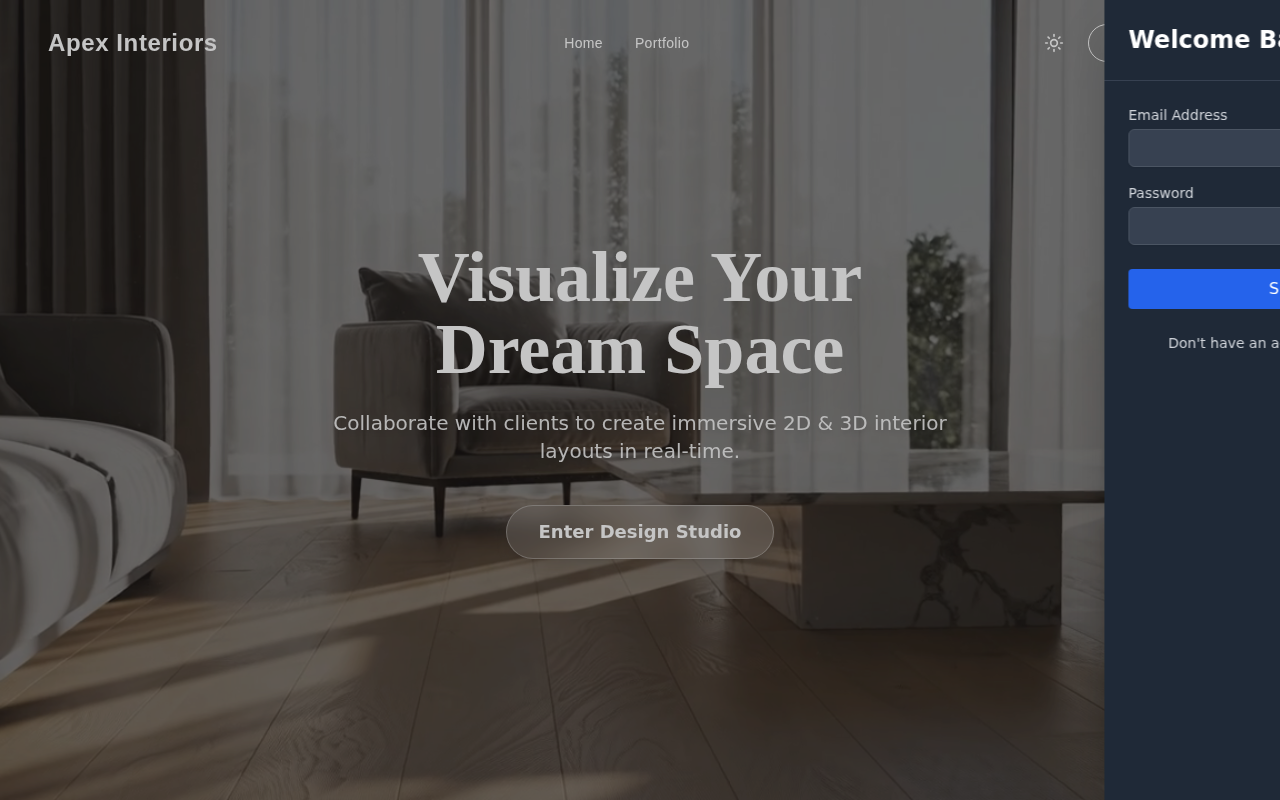
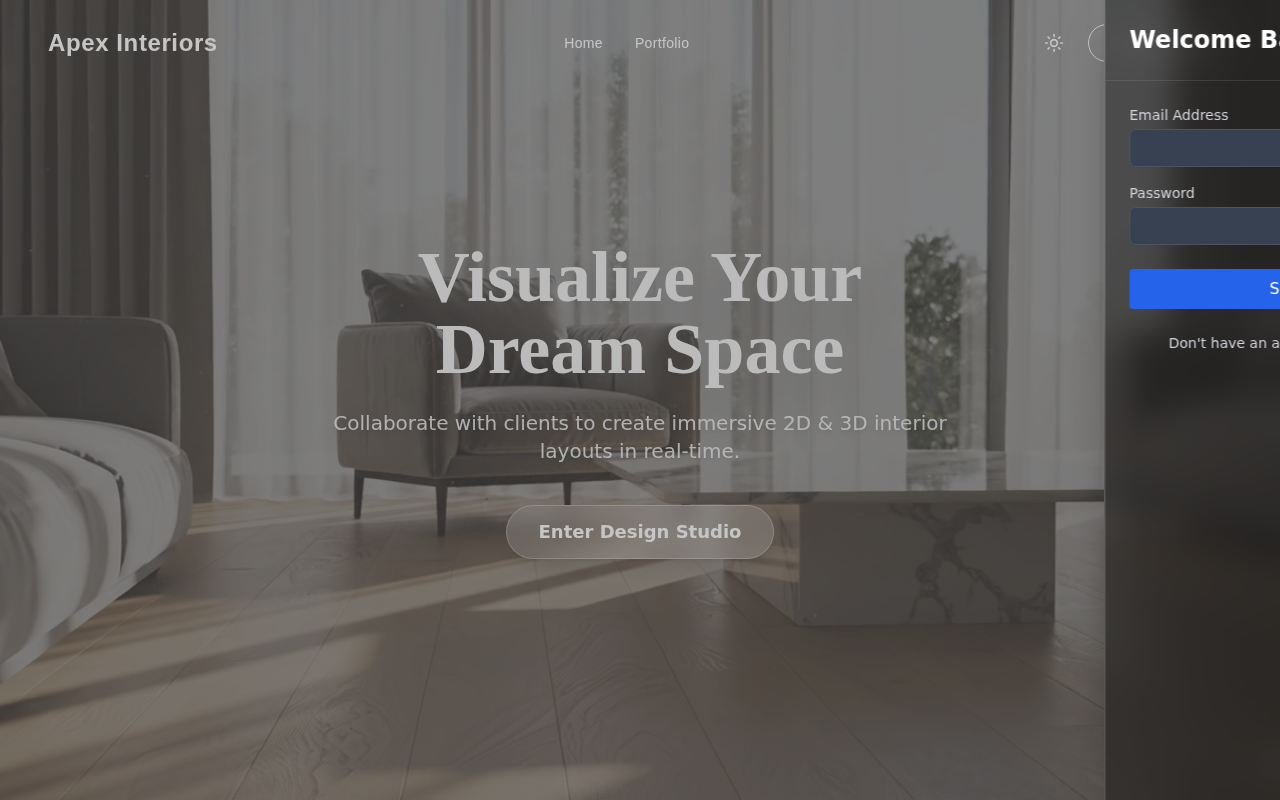
feat: Add toast notifications, item properties, user guide, and AuthPanel

diff --git a/client/src/features/auth/AuthPanel.jsx b/client/src/features/auth/AuthPanel.jsx
@@ -58,8 +58,8 @@ const AuthPanel = ({ isOpen, onClose }) => {
       />
 
       {/* Sliding Panel */}
-      <div className={`fixed top-0 right-0 h-full w-full max-w-sm bg-white dark:bg-gray-800 shadow-2xl z-50 transform transition-transform duration-300 ease-in-out ${isOpen ? 'translate-x-0' : 'translate-x-full'} flex flex-col`}>
-        <div className="flex justify-between items-center p-6 border-b dark:border-gray-700">
+      <div className={`fixed top-0 right-0 h-full w-full max-w-sm bg-white/60 dark:bg-black/40 backdrop-blur-lg border-l border-white/20 shadow-2xl z-50 transform transition-transform duration-300 ease-in-out ${isOpen ? 'translate-x-0' : 'translate-x-full'} flex flex-col`}>
+        <div className="flex justify-between items-center p-6 border-b border-black/10 dark:border-white/10">
           <h2 className="text-2xl font-bold dark:text-white">
             {isLogin ? 'Welcome Back' : 'Create Account'}
           </h2>
